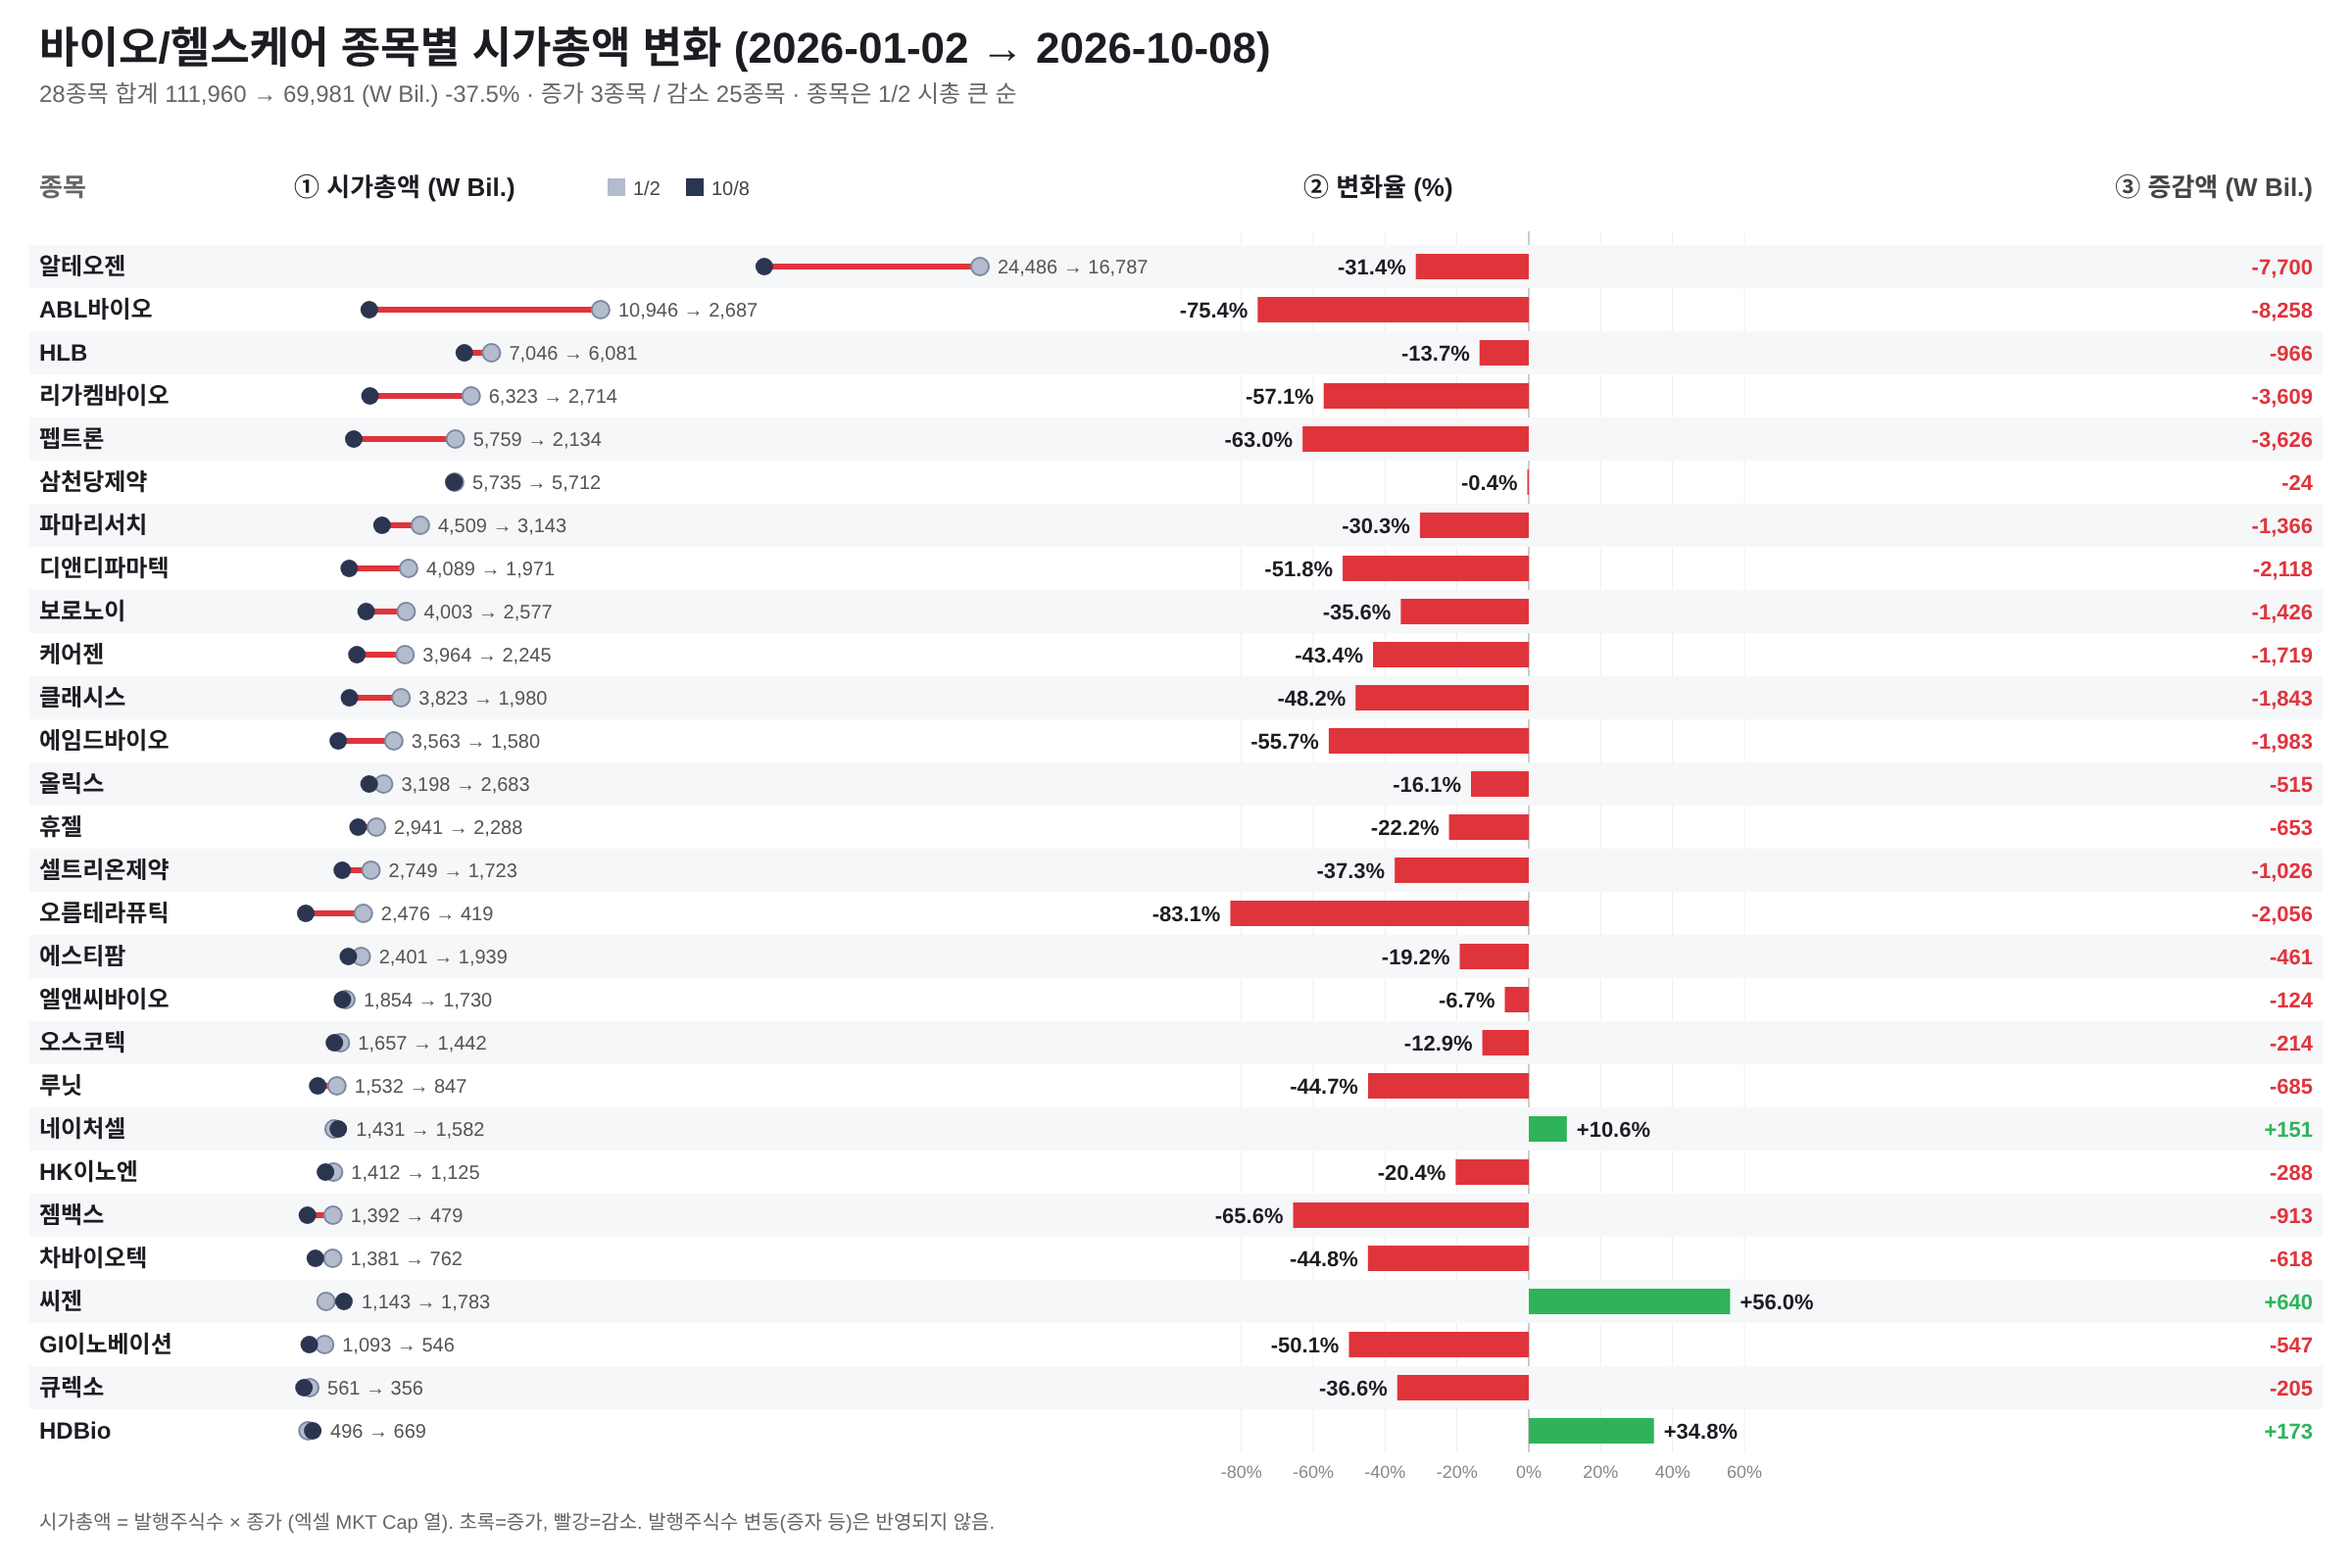
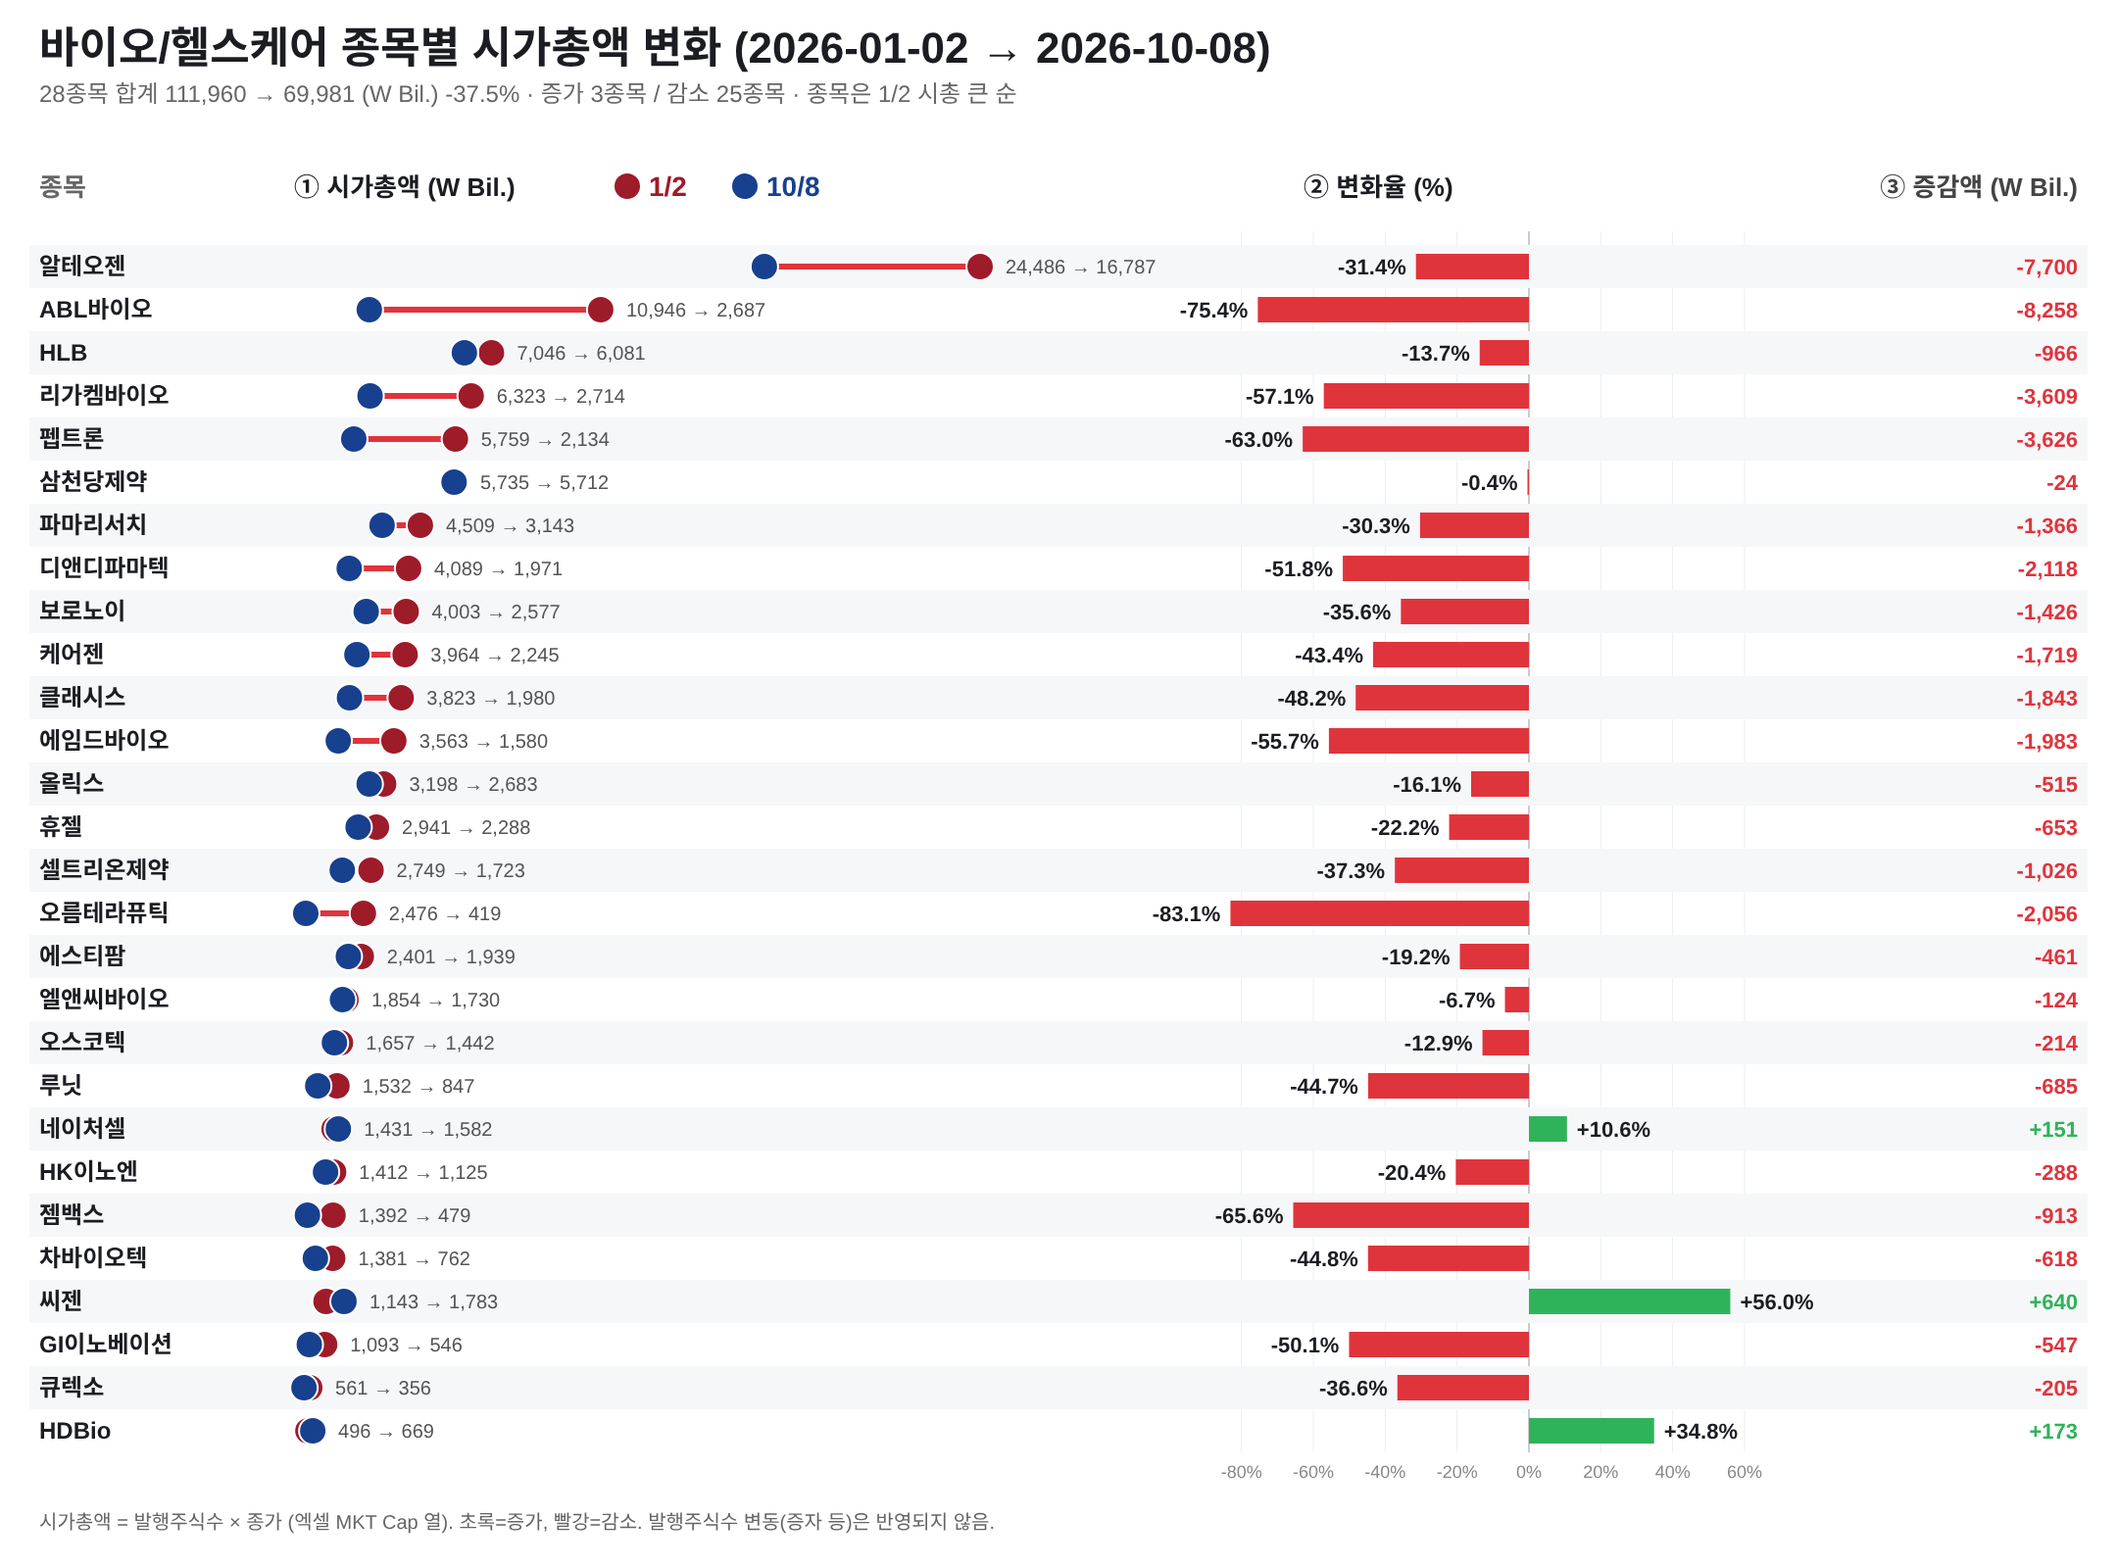
Bio chart: larger dark-red/dark-blue dots, bigger 1/2 & 10/8 labels, narrower gap before change column
Claude-Session: https://claude.ai/code/session_01Gam9ENFHFFZq985tBgxY9f

diff --git a/kosdaq_bio_cap_change.html b/kosdaq_bio_cap_change.html
@@ -3,17 +3,17 @@
 <title>KOSDAQ 바이오/헬스케어 종목별 시가총액 변화</title>
 <style>body{margin:0;background:#fff;color:#222;font-family:Arial,"Malgun Gothic","Noto Sans CJK KR",sans-serif}
 svg{display:block;width:100%;height:auto}</style></head><body>
-<svg id="c" viewBox="0 0 2400 1600" xmlns="http://www.w3.org/2000/svg"></svg>
+<svg id="c" viewBox="0 0 2160 1600" xmlns="http://www.w3.org/2000/svg"></svg>
 <script>
 // [종목명, 2026-01-02 시총(W Bil.), 2026-10-08 시총(W Bil.)]  출처: 엑셀 첫 번째 탭, 컬럼 K = 바이오/헬스케어, 1/2 시총 순
 const D = [["알테오젠",24486.4,16786.9],["ABL바이오",10945.5,2687.4],["HLB",7046.2,6080.5],["리가켐바이오",6322.9,2713.5],["펩트론",5759.4,2133.5],["삼천당제약",5735.4,5711.9],["파마리서치",4509.1,3142.9],["디앤디파마텍",4089.1,1970.9],["보로노이",4002.6,2576.5],["케어젠",3964.2,2245.3],["클래시스",3822.8,1979.9],["에임드바이오",3563.0,1579.6],["올릭스",3197.9,2683.2],["휴젤",2941.1,2287.8],["셀트리온제약",2748.5,1722.8],["오름테라퓨틱",2475.5,419.2],["에스티팜",2400.8,1939.4],["엘앤씨바이오",1853.5,1729.8],["오스코텍",1656.6,1442.3],["루닛",1532.1,846.6],["네이처셀",1430.5,1581.9],["HK이노엔",1412.2,1124.7],["젬백스",1391.7,478.9],["차바이오텍",1380.6,762.4],["씨젠",1142.7,1782.9],["GI이노베이션",1092.9,545.8],["큐렉소",561.1,355.7],["HDBio",496.0,668.8]];
-const GREEN='#2fb35a', RED='#e0343c', LIGHT='#b3bccd', DARK='#2b3550', INK='#1b1d22', F='font-family="Arial, Malgun Gothic, Noto Sans CJK KR, sans-serif"';
+const GREEN='#2fb35a', RED='#e0343c', LIGHT='#9e1b2a', DARK='#17408f', INK='#1b1d22', F='font-family="Arial, Malgun Gothic, Noto Sans CJK KR, sans-serif"';
 const fmt = v => Math.round(v).toLocaleString();
 const sg = v => (v>=0?'+':'-') + fmt(Math.abs(v));
 const pc = v => (v>=0?'+':'') + v.toFixed(1) + '%';
 const A = D.reduce((s,x)=>s+x[1],0), B = D.reduce((s,x)=>s+x[2],0);
 const T = (x,y,s,t,c=INK,w='normal',a='start') => `<text x="${x}" y="${y}" font-size="${s}" font-weight="${w}" fill="${c}" text-anchor="${a}" ${F}>${t}</text>`;
-let o = '<rect width="2400" height="1600" fill="#ffffff"/>';
+let o = '<rect width="2160" height="1600" fill="#ffffff"/>';
 o += T(40,64,44,'바이오/헬스케어 종목별 시가총액 변화 (2026-01-02 → 2026-10-08)',INK,'bold');
 const up = D.filter(x=>x[2]>x[1]).length;
 o += T(40,104,24,`${D.length}종목 합계 ${fmt(A)} → ${fmt(B)} (W Bil.)  ${pc((B/A-1)*100)}  ·  증가 ${up}종목 / 감소 ${D.length-up}종목  ·  종목은 1/2 시총 큰 순`,'#666');
@@ -21,23 +21,23 @@ const y0=250, rh=44;
 // 열 제목
 o += T(40,200,26,'종목','#666','bold');
 o += T(300,200,26,'① 시가총액 (W Bil.)',INK,'bold');
-o += `<rect x="620" y="182" width="18" height="18" fill="${LIGHT}"/>`+T(646,199,20,'1/2','#444')+`<rect x="700" y="182" width="18" height="18" fill="${DARK}"/>`+T(726,199,20,'10/8','#444');
+o += `<circle cx="640" cy="190" r="14" fill="${LIGHT}" stroke="#fff" stroke-width="2"/>`+T(662,200,28,'1/2',LIGHT,'bold')+`<circle cx="760" cy="190" r="14" fill="${DARK}" stroke="#fff" stroke-width="2"/>`+T(782,200,28,'10/8',DARK,'bold');
 o += T(1330,200,26,'② 변화율 (%)',INK,'bold');
-o += T(2360,200,26,'③ 증감액 (W Bil.)','#444','bold','end');
+o += T(2120,200,26,'③ 증감액 (W Bil.)','#444','bold','end');
 const px0=300, pw=700, max=Math.max(...D.map(x=>Math.max(x[1],x[2]))), sx=v=>px0+(v/max)*pw;
 const zx=1560, hw=300, lo=-90, hi=60, k=hw*2/ (hi-lo);   // 변화율 축
 const cx = v => zx + v*(330/90);
 for(const v of [-80,-60,-40,-20,0,20,40,60]) o+=`<line x1="${cx(v)}" x2="${cx(v)}" y1="${y0-14}" y2="${y0+D.length*rh}" stroke="${v==0?'#999':'#eceef2'}"/>`+T(cx(v),y0+D.length*rh+26,18,v+'%','#888','normal','middle');
 D.forEach(([n,a,b],i)=>{ const y=y0+i*rh, cy=y+rh/2, ch=(b/a-1)*100, c=ch>=0?GREEN:RED;
-  if(i%2==0) o+=`<rect x="30" y="${y}" width="2340" height="${rh}" fill="#f6f7f9"/>`;
+  if(i%2==0) o+=`<rect x="30" y="${y}" width="2100" height="${rh}" fill="#f6f7f9"/>`;
   o+=T(40,cy+8,24,n,INK,'bold');
   o+=`<line x1="${sx(a)}" x2="${sx(b)}" y1="${cy}" y2="${cy}" stroke="${c}" stroke-width="6"/>`;
-  o+=`<circle cx="${sx(a)}" cy="${cy}" r="9" fill="${LIGHT}" stroke="#7d889f" stroke-width="2"/><circle cx="${sx(b)}" cy="${cy}" r="9" fill="${DARK}"/>`;
+  o+=`<circle cx="${sx(a)}" cy="${cy}" r="14" fill="${LIGHT}" stroke="#fff" stroke-width="2"/><circle cx="${sx(b)}" cy="${cy}" r="14" fill="${DARK}" stroke="#fff" stroke-width="2"/>`;
   const mx=Math.max(a,b);
-  o+=T(sx(mx)+18,cy+7,20,`${fmt(a)} → ${fmt(b)}`,'#555');
+  o+=T(sx(mx)+26,cy+7,20,`${fmt(a)} → ${fmt(b)}`,'#555');
   o+=`<rect x="${Math.min(cx(0),cx(ch))}" y="${cy-13}" width="${Math.abs(cx(ch)-cx(0))}" height="26" fill="${c}"/>`;
   o+= ch>=0 ? T(cx(ch)+10,cy+8,22,pc(ch),INK,'bold') : T(cx(ch)-10,cy+8,22,pc(ch),INK,'bold','end');
-  o+=T(2360,cy+8,22,sg(b-a),c,'bold','end');
+  o+=T(2120,cy+8,22,sg(b-a),c,'bold','end');
 });
 o += T(40,1560,20,'시가총액 = 발행주식수 × 종가 (엑셀 MKT Cap 열). 초록=증가, 빨강=감소. 발행주식수 변동(증자 등)은 반영되지 않음.','#666');
 document.getElementById('c').innerHTML=o;
